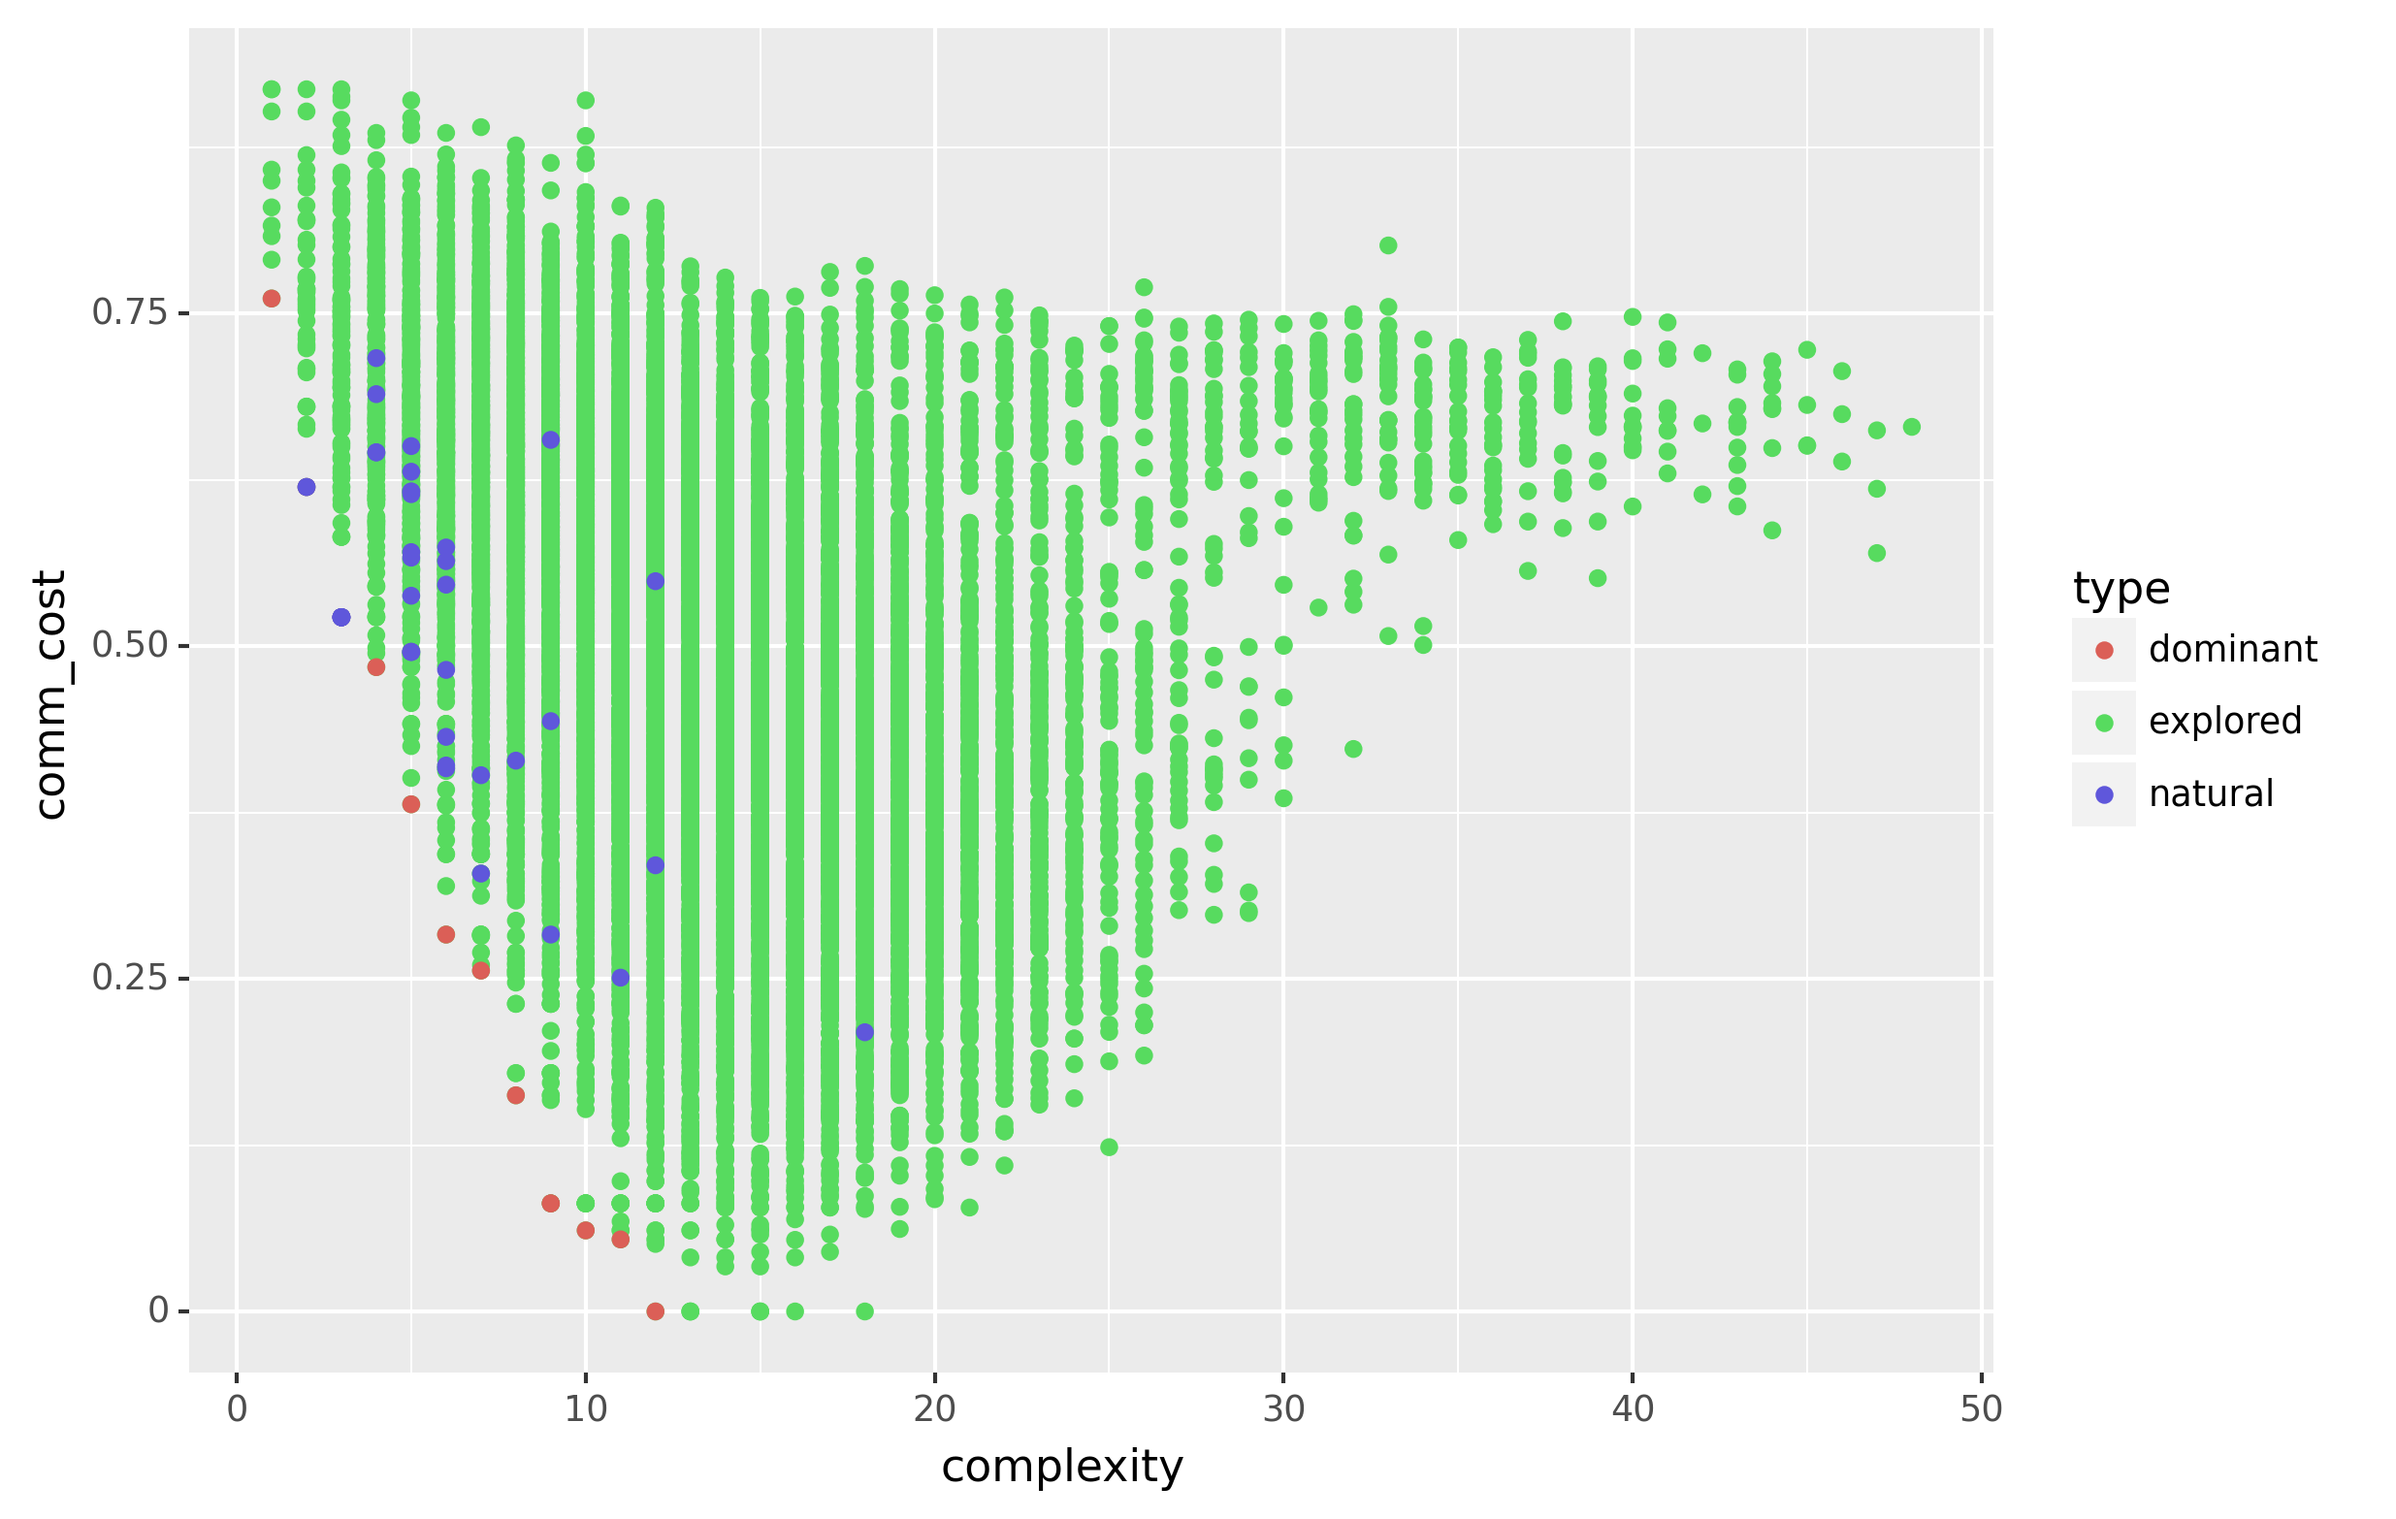
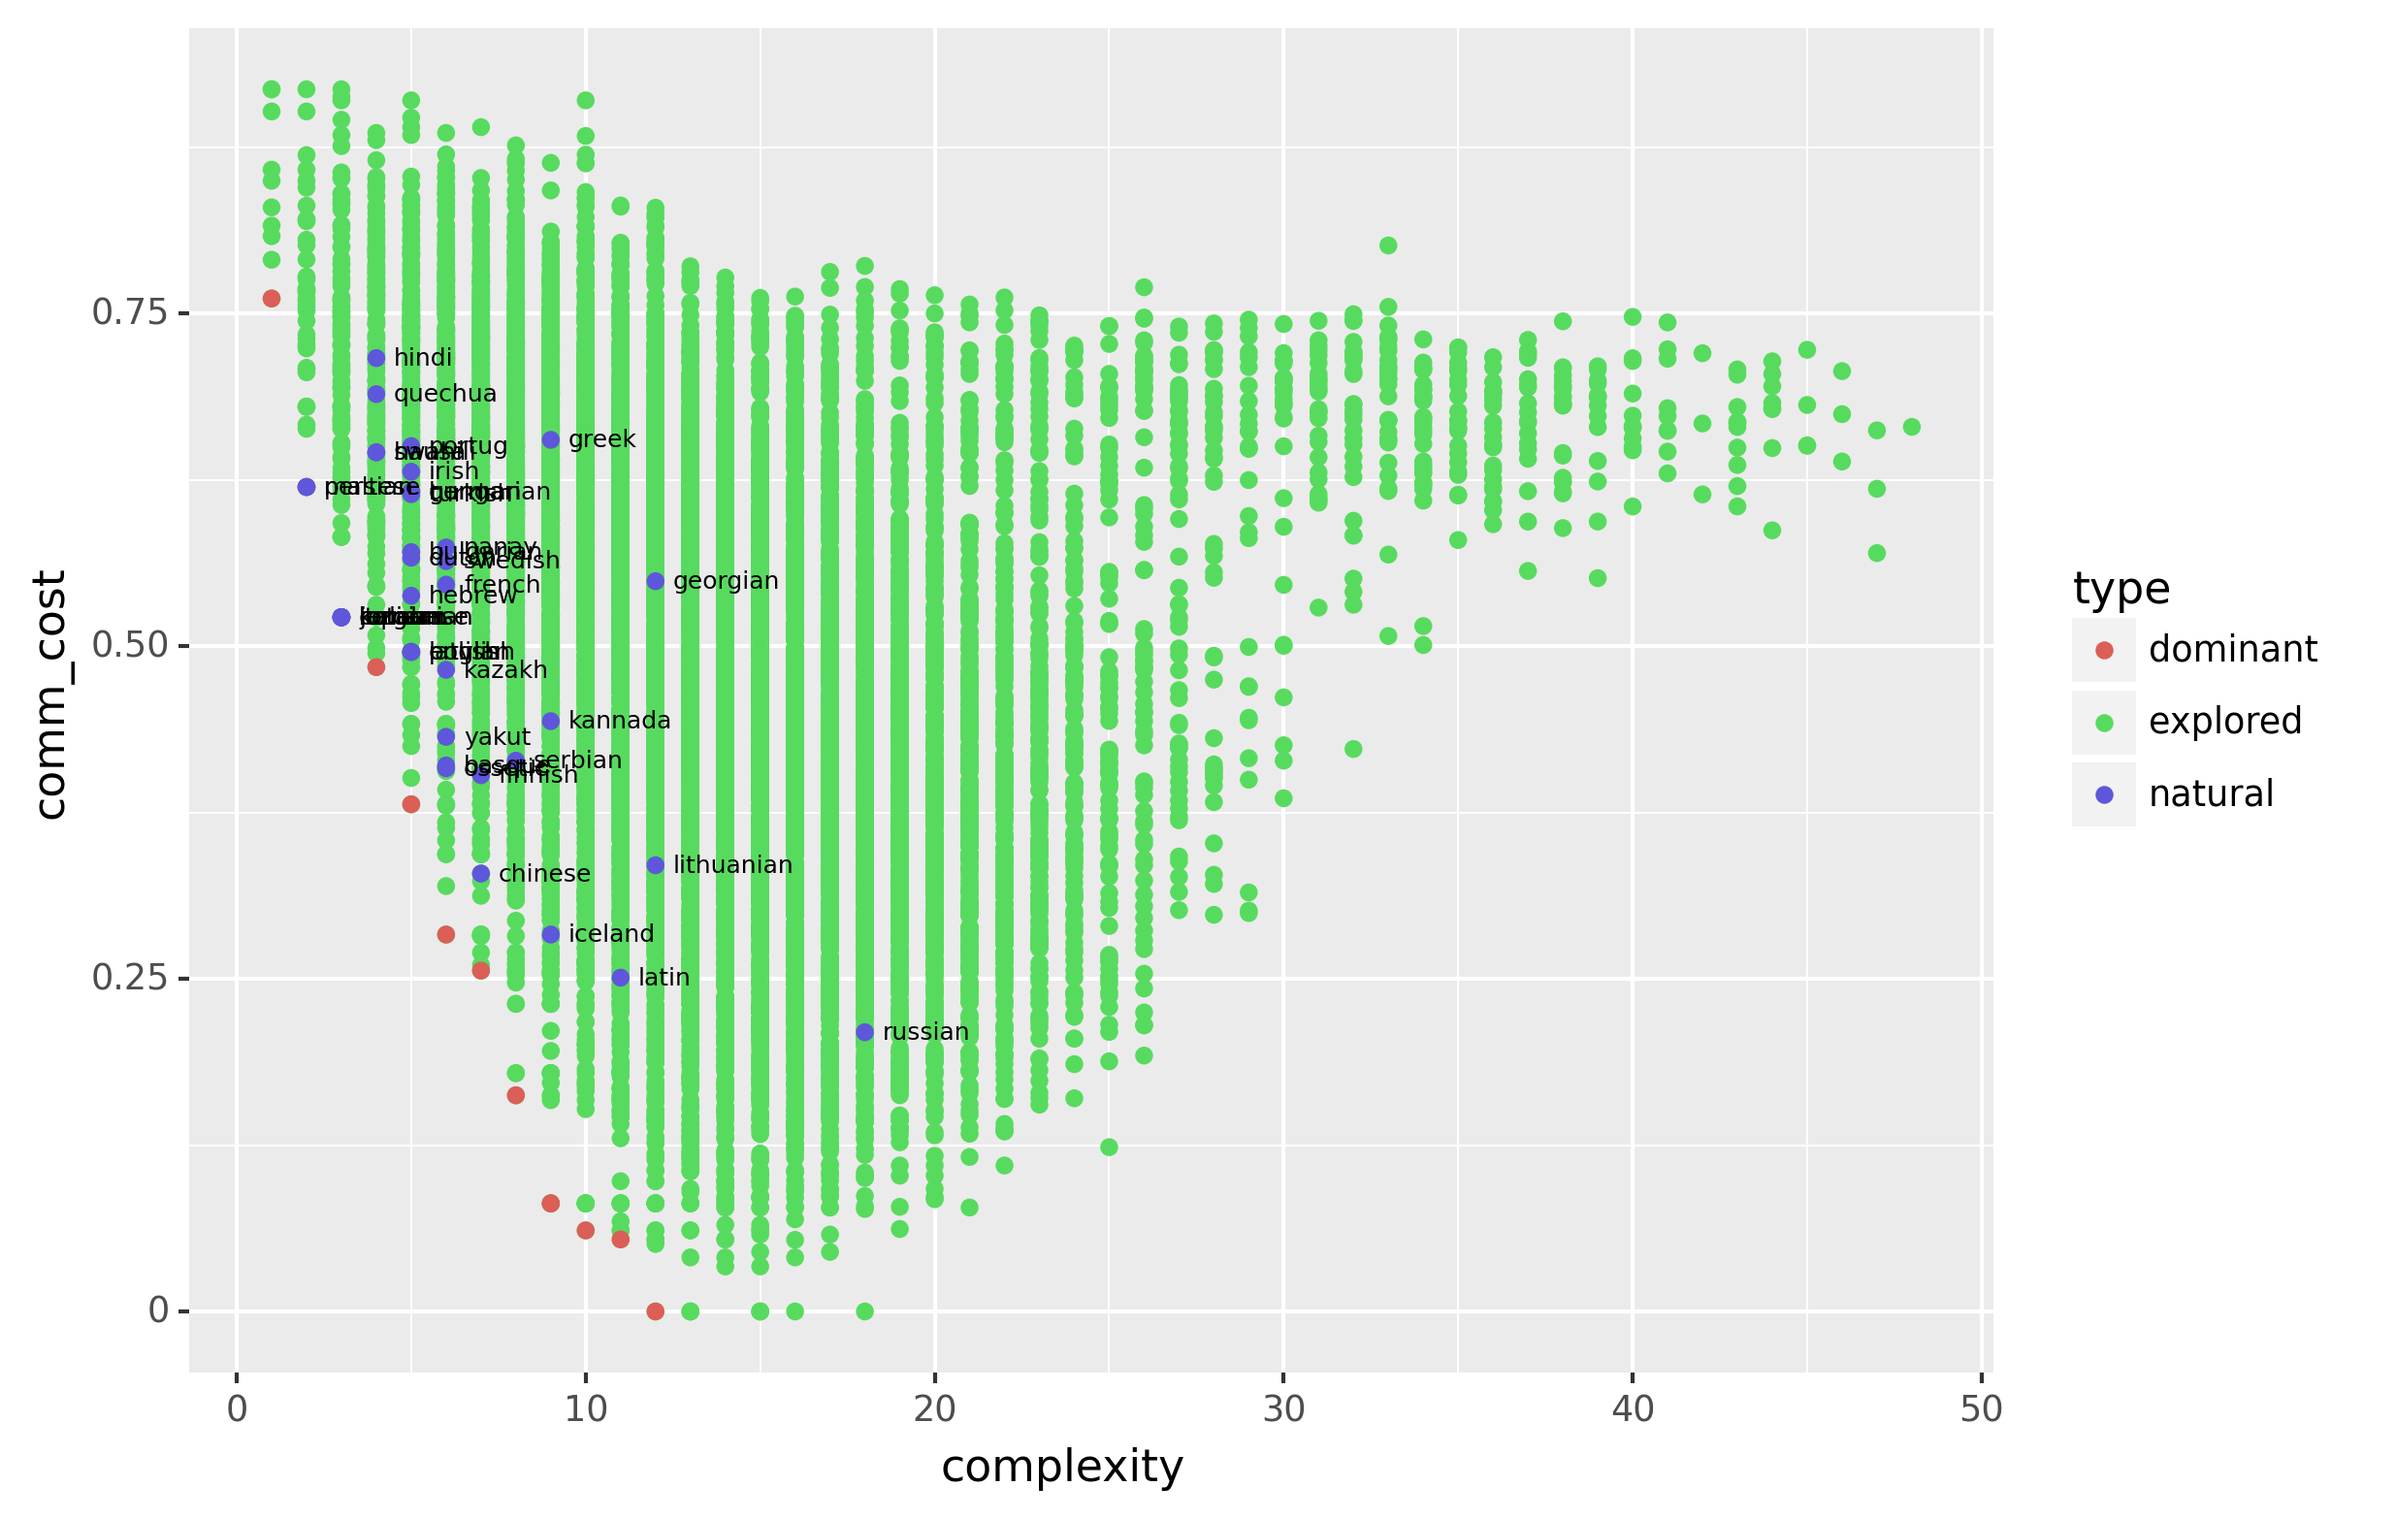
add lang names to plot

diff --git a/src/examples/indefinites/scripts/analyze.py b/src/examples/indefinites/scripts/analyze.py
@@ -3,8 +3,16 @@ import plotnine as pn
 
 if __name__ == "__main__":
     combined_data = pd.read_csv("indefinites/outputs/combined_data.csv")
-    plot = pn.ggplot(pn.aes(x="complexity", y="comm_cost")) + pn.geom_point(
-        combined_data, pn.aes(color="type")
+    plot = (
+        pn.ggplot(pn.aes(x="complexity", y="comm_cost"))
+        + pn.geom_point(combined_data, pn.aes(color="type"))
+        + pn.geom_text(
+            combined_data[combined_data["type"] == "natural"],
+            pn.aes(label="name"),
+            ha="left",
+            size=6, 
+            nudge_x=0.5,
+        )
     )
     plot.save("indefinites/outputs/plot.png", width=8, height=6, dpi=300)
 
